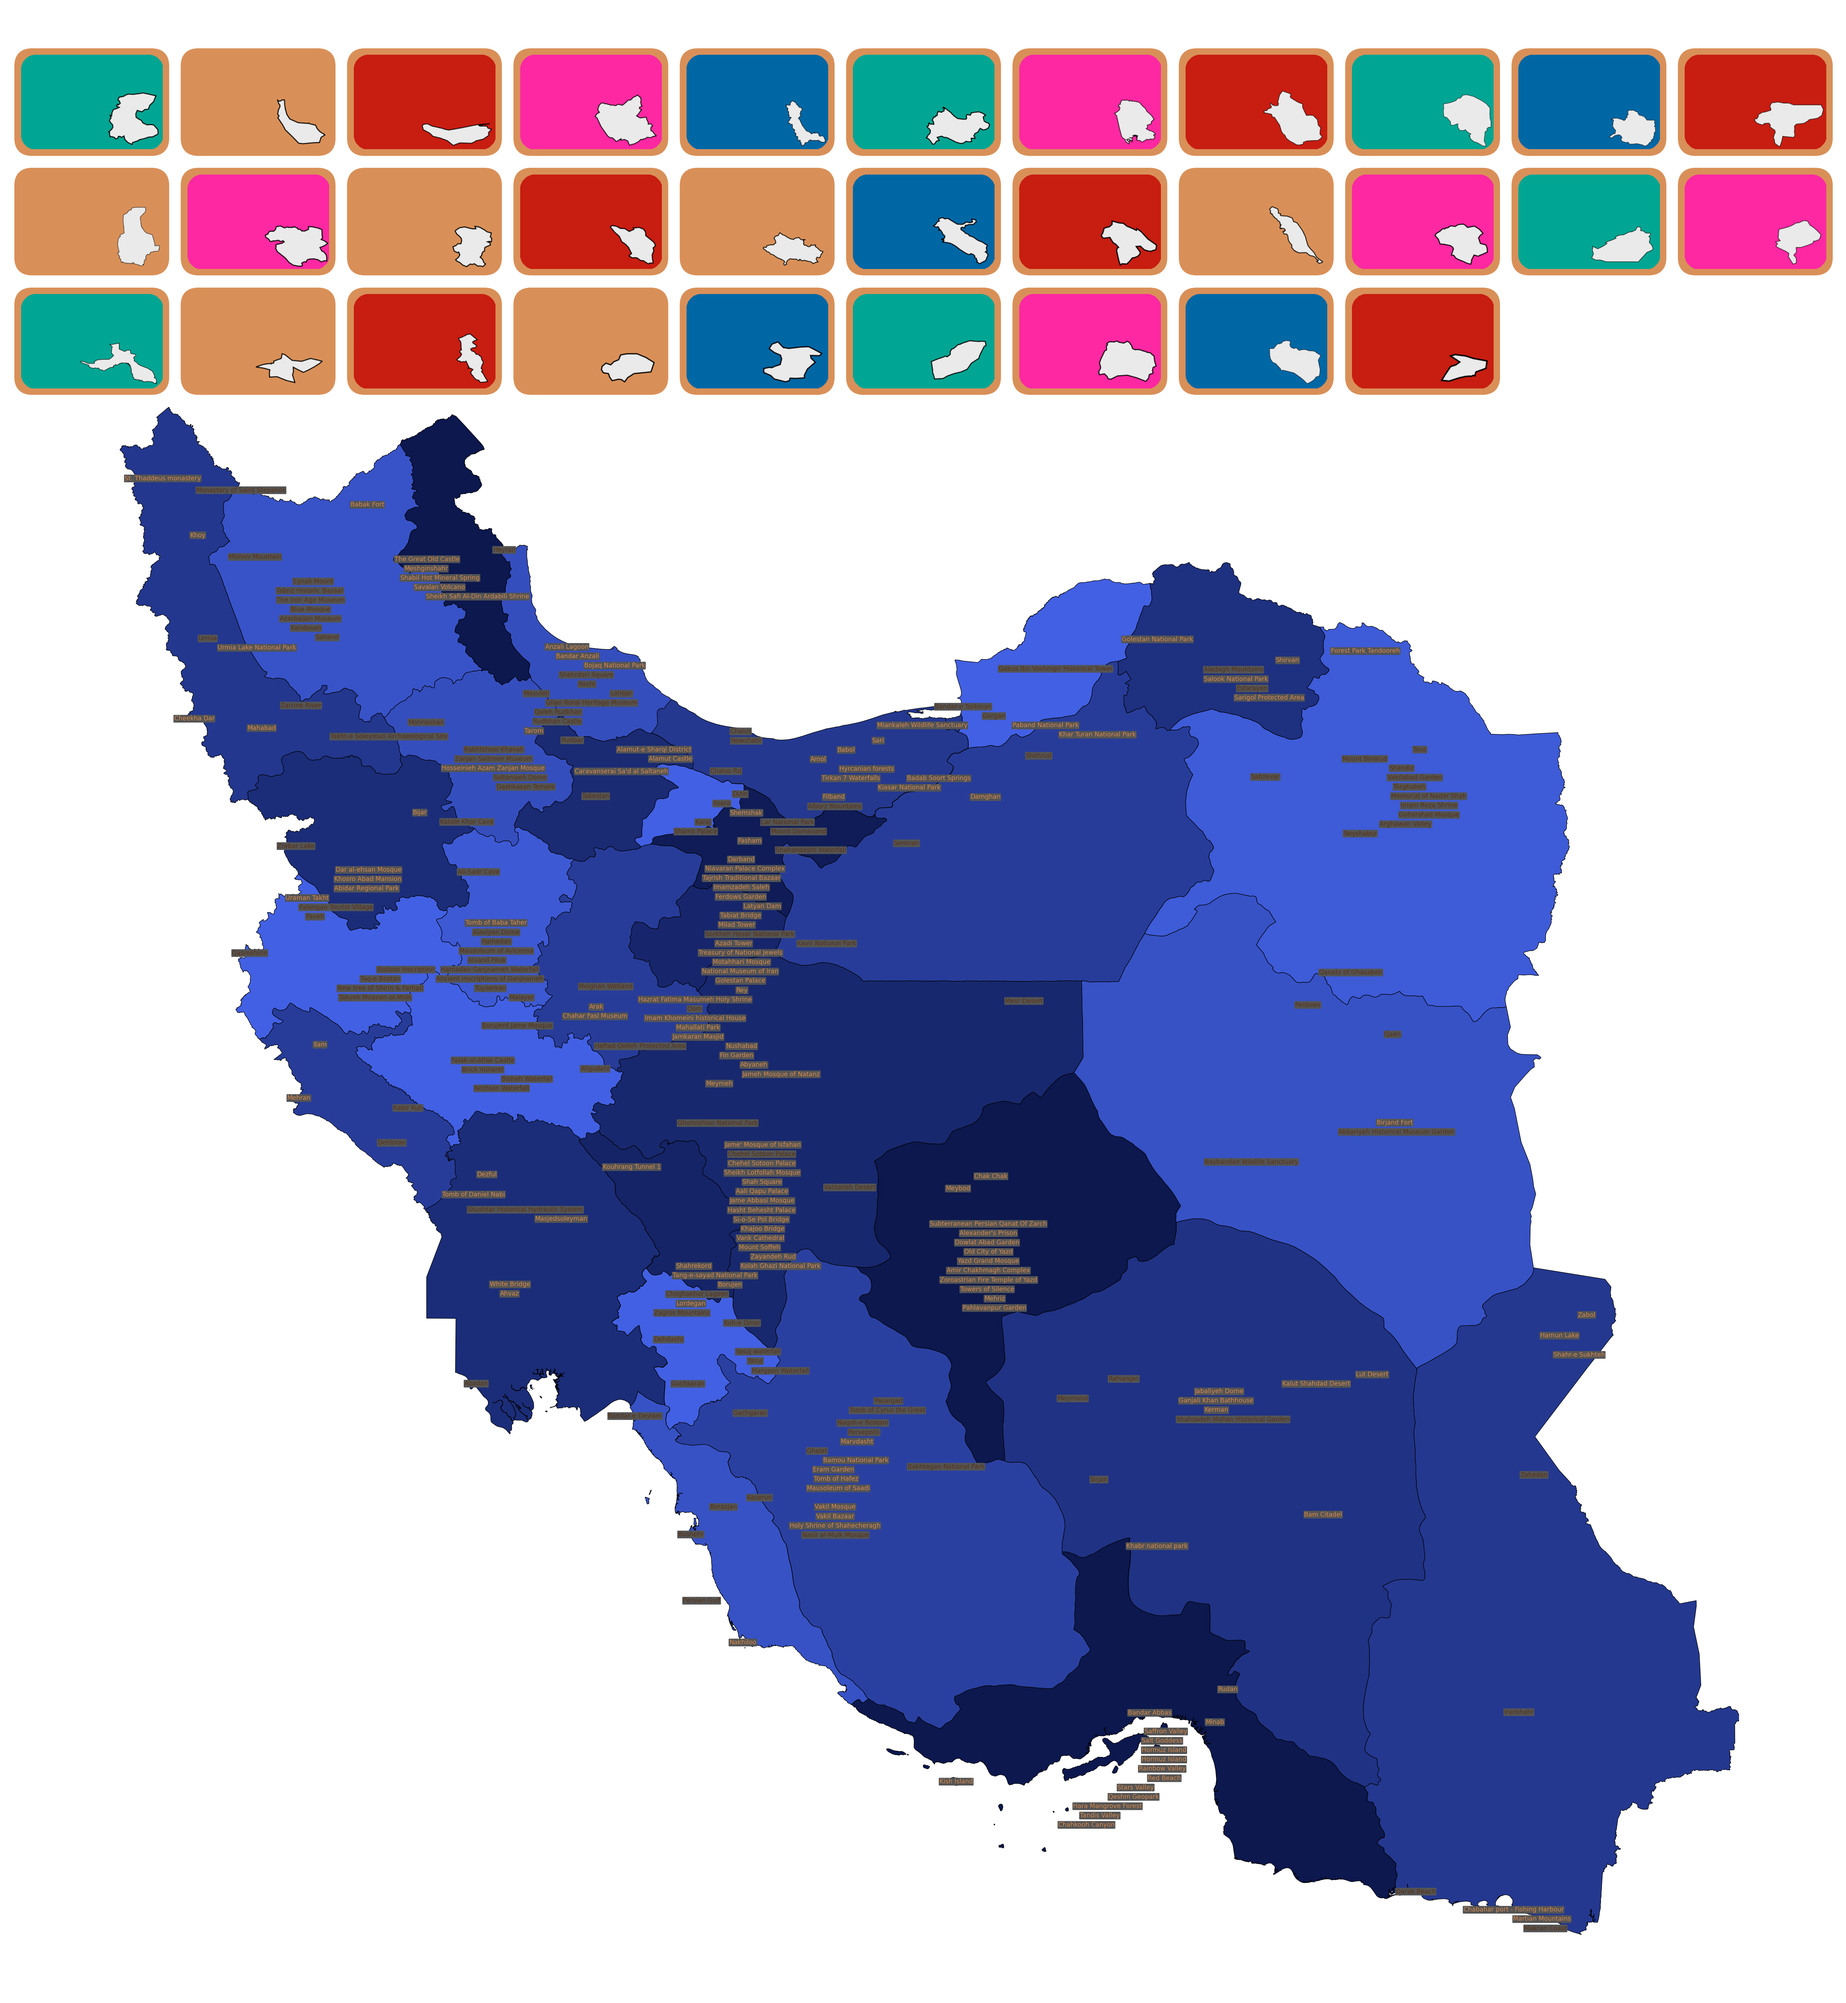
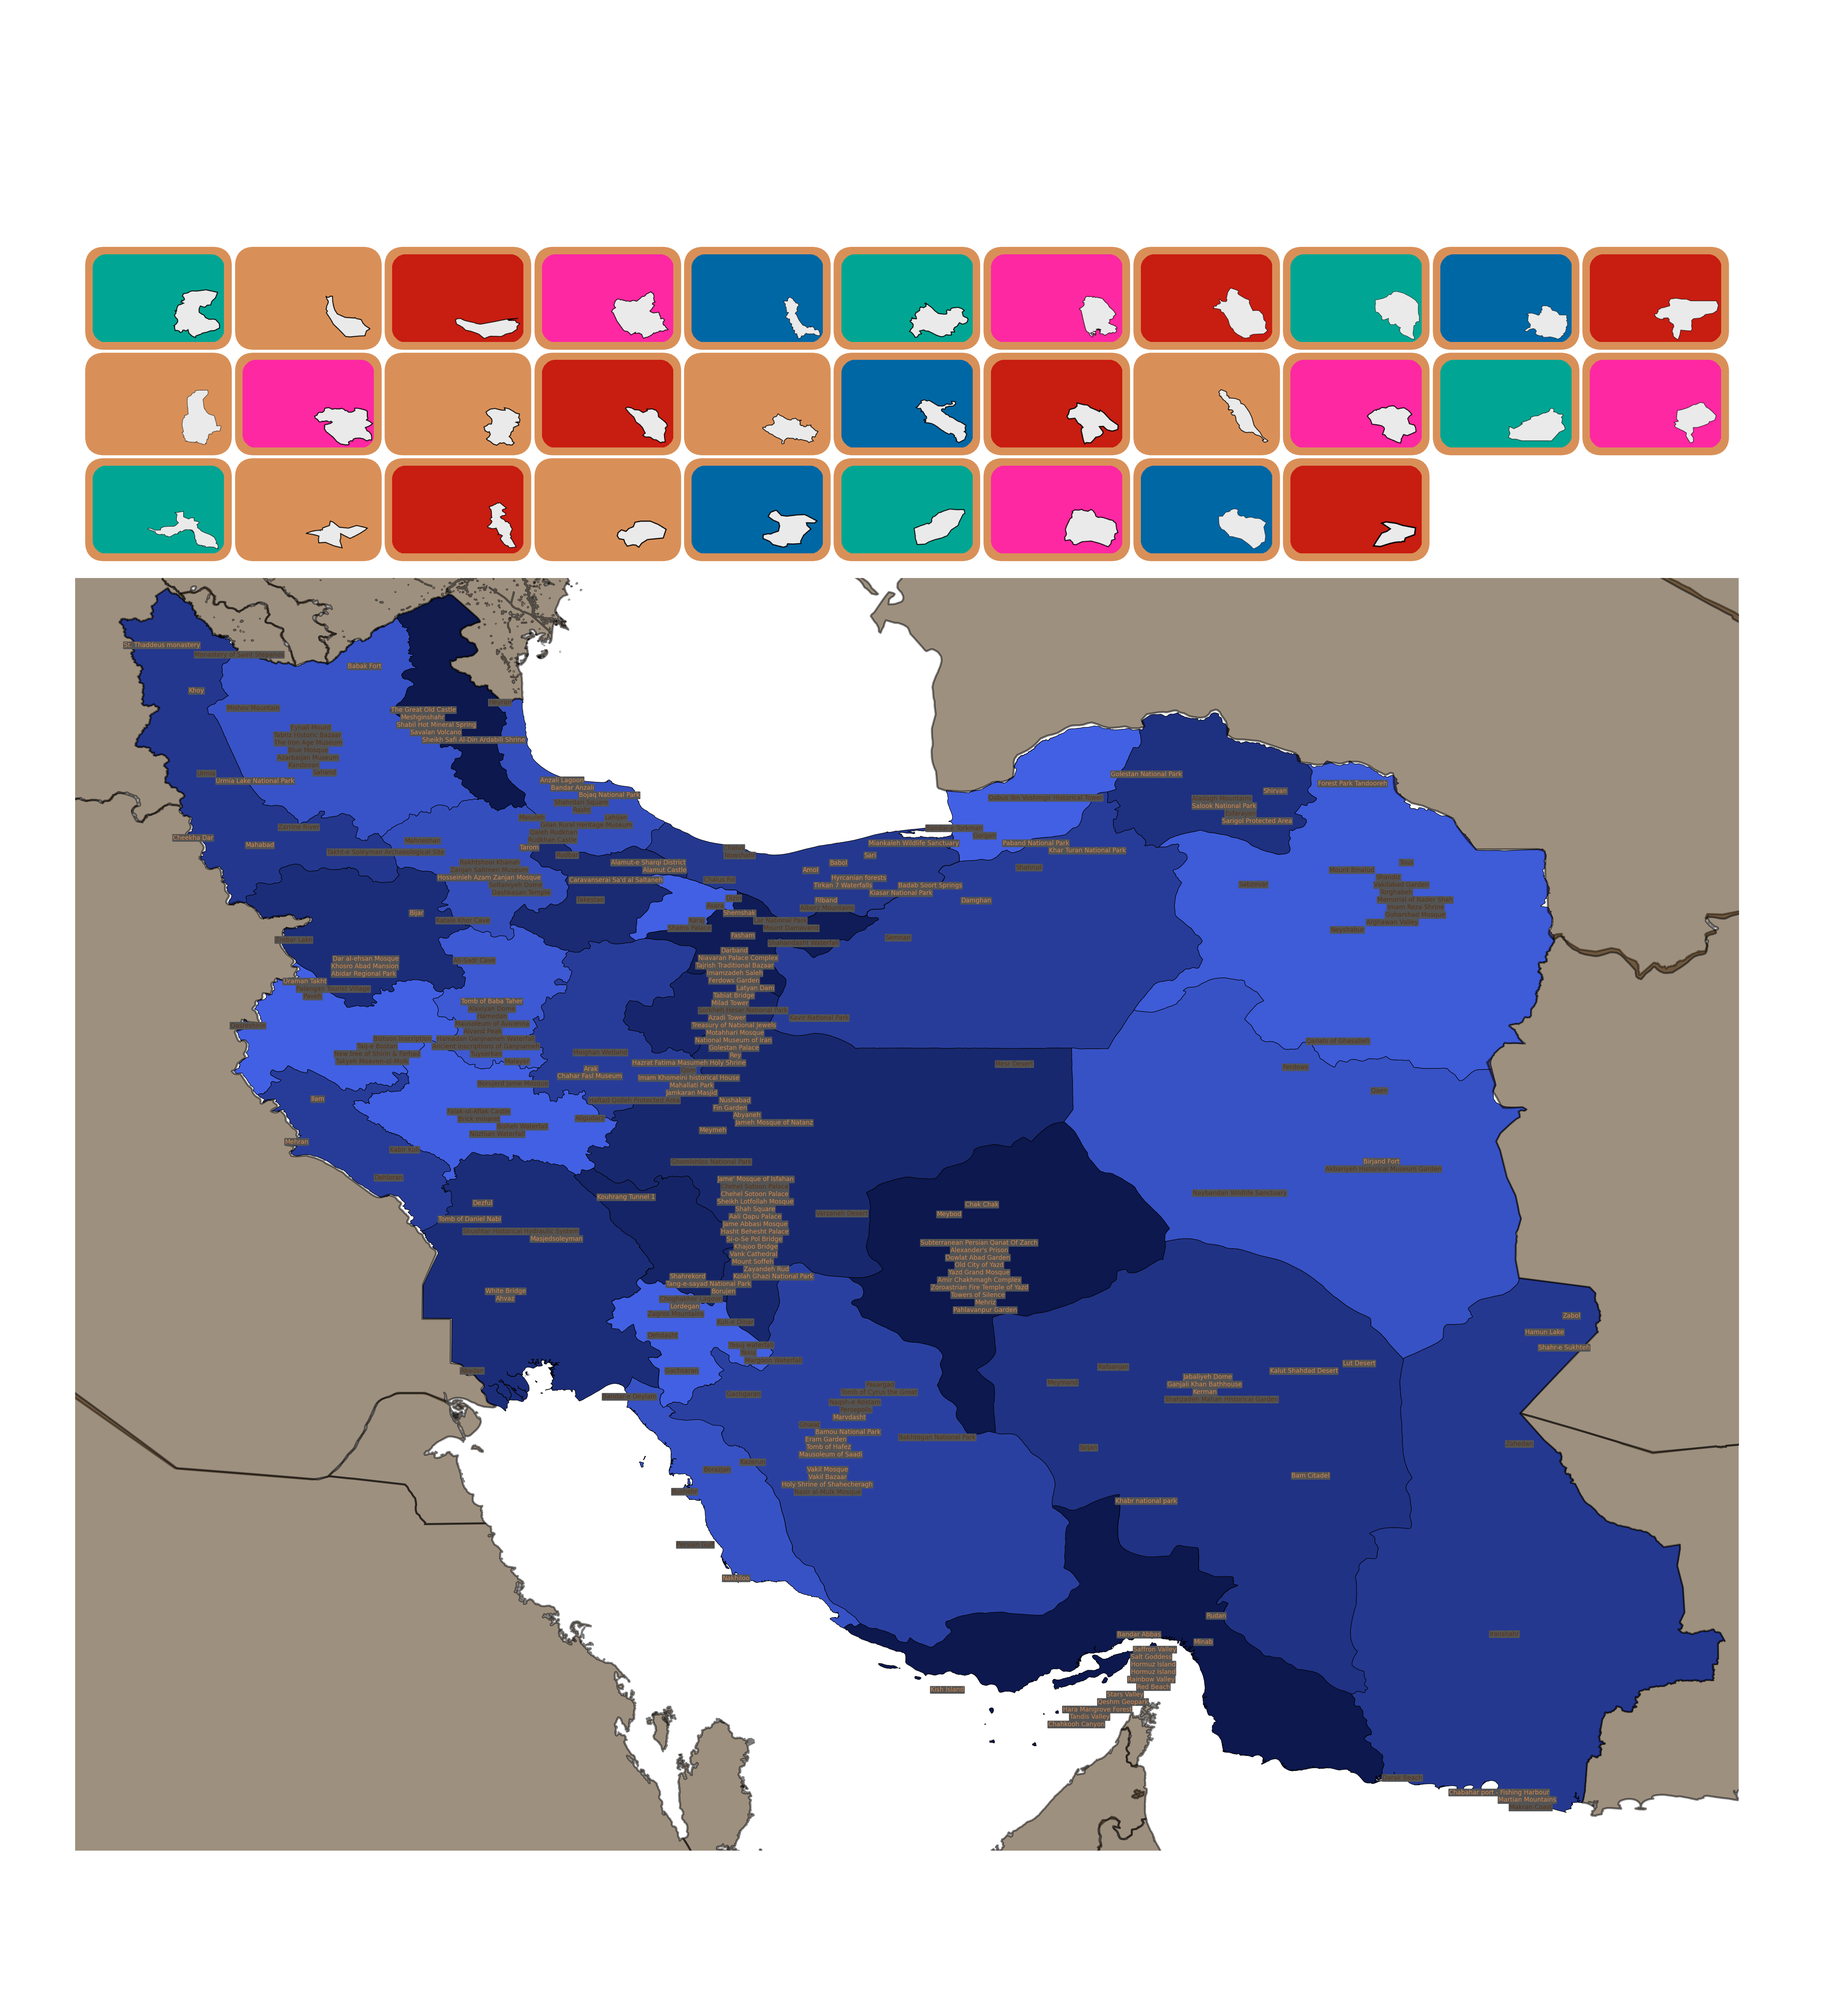
update large map

diff --git a/plotting/plotting_manager.py b/plotting/plotting_manager.py
@@ -172,8 +172,9 @@ class PlotManager:
             row = math.floor(i / flag_positon["num_in_row"])
             column = i - flag_positon["num_in_row"]*row
 
-            x_position = flag_positon["x_start"] + flag_positon["x_spacing"]*column
-            y_position = flag_positon["y_start"] - flag_positon["y_spacing"]*row
+
+            x_position = flag_positon["x_start"][flag_size] + flag_positon["x_spacing"][flag_size]*column
+            y_position = flag_positon["y_start"][flag_size] - flag_positon["y_spacing"][flag_size]*row
 
             img_position = (x_position, y_position)
 

diff --git a/main.py b/main.py
@@ -11,7 +11,7 @@ from utils.file_utils import ensure_directory_exists
 
 
 # Set global variables, directories for map creation and site locations
-SCALE = 1
+SCALE = 5
 
 # US National Park Global Variables
 #PATH = "us"
